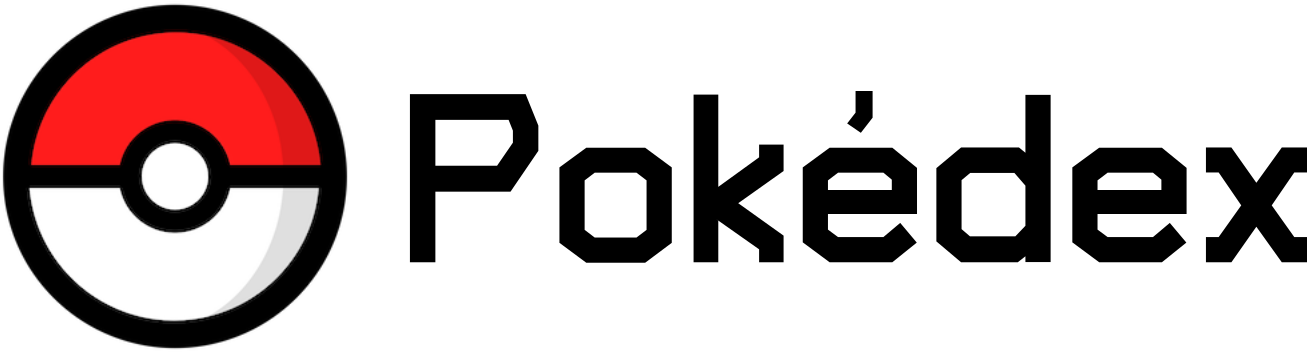
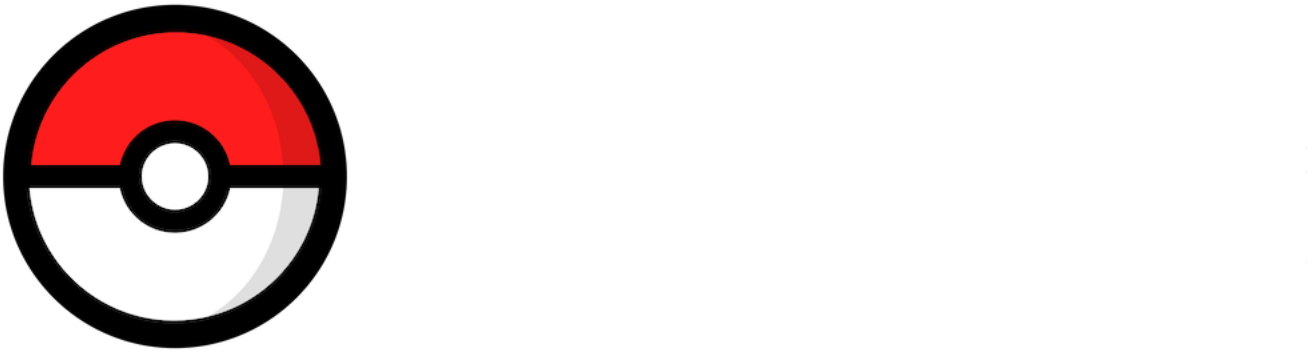
Updated style of page

Changed region(s): [[0.306, 0.25, 1.0, 0.75], [0.6427, 0.25, 0.6733, 0.375]]

diff --git a/css/styles.css b/css/styles.css
@@ -1,4 +1,5 @@
 :root {
+  --red: #f81c1c;
   --normal: #C1C1C1;
   --fire: #FA8E2E;
   --water: #509DFF;
@@ -36,25 +37,27 @@ h1 {
   text-align: center
 }
 
-h2 {
-  color: var(--font-color);
-  font-size: 24px;
-  font-weight: var(--font-bold);
-  text-align: center;
-}
-
 p {
   font-weight: var(--font-normal);
 }
 
 body {
-  background-image: linear-gradient(var(--water), var(--dark));
+  background-image: radial-gradient(var(--water), var(--grass), var(--water));
   background-repeat: no-repeat;
 }
 
 .container {
+  position: relative;
   margin-top: 95px;
   min-height: 100vh;
+}
+
+.container-header {
+  display: block;
+  margin-left: auto;
+  margin-right: auto;
+  margin-top: 25px;
+  margin-bottom: 10px;
 }
 
 .pokemon-list {
@@ -72,134 +75,223 @@ body {
 
 .list-group-item {
   border: none;
-  margin: -5px;
+  background: none;
 }
 
 .btn {
-  background-color: var(--grass);
+  background-color: var(--red);
   border-radius: 10px;
   padding: 20px;
   font-weight: var(--font-bold);
   text-transform: capitalize;
   text-align: center;
   width: 100%;
+  color: #fff;
+  border: solid 4px #000;
 }
 
   .btn:hover,
   .btn:focus {
     cursor: pointer;
     transition-duration: 0.4s;
+    background-color: var(--electric);
+  }
+
+.pokemon-left,
+.pokemon-right {
+  margin: auto;
+  position: fixed;
+  bottom: 0;
+  max-width: 500px;
+  height: auto;
+}
+
+.pokemon-left {
+  left: 0;
+}
+
+.pokemon-right {
+  right: 0;
   }
 
   /* ------------------------ Background Colors ------------------------ */
 
-  .normal-bg {
-    background-color: var(--normal);
-  }
+.normal-bg {
+  border: 8px solid var(--normal);
+}
 
-  .fire-bg {
-    background-color: var(--fire);
-  }
+.fire-bg {
+  border: 8px solid var(--fire);
+}
 
-  .water-bg {
-    background-color: var(--water);
-  }
+.water-bg {
+  border: 8px solid var(--water);
+}
 
-  .grass-bg {
-    background-color: var(--grass);
-  }
+.grass-bg {
+  border: 8px solid var(--grass);
+}
 
-  .electric-bg {
-    background-color: var(--electric);
-  }
+.electric-bg {
+  border: 8px solid var(--electric);
+}
 
-  .ice-bg {
-    background-color: var(--ice);
-  }
+.ice-bg {
+  border: 8px solid var(--ice);
+}
 
-  .fighting-bg {
-    background-color: var(--fighting);
-  }
+.fighting-bg {
+  border: 8px solid var(--fighting);
+}
 
-  .poison-bg {
-    background-color: var(--poison);
-  }
+.poison-bg {
+  border: 8px solid var(--poison);
+}
 
-  .ground-bg {
-    background-color: var(--ground);
-  }
+.ground-bg {
+  border: 8px solid var(--ground);
+}
 
-  .flying-bg {
-    background-color: var(--flying);
-  }
+.flying-bg {
+  border: 8px solid var(--flying);
+}
 
-  .psychic-bg {
-    background-color: var(--psychic);
-  }
+.psychic-bg {
+  border: 8px solid var(--psychic);
+}
 
-  .bug-bg {
-    background-color: var(--bug);
-  }
+.bug-bg {
+  border: 8px solid var(--bug);
+}
 
-  .rock-bg {
-    background-color: var(--rock);
-  }
+.rock-bg {
+  border: 8px solid var(--rock);
+}
 
-  .ghost-bg {
-    background-color: var(--ghost);
-  }
+.ghost-bg {
+   border: 8px solid var(--ghost);
+}
 
-  .dark-bg {
-    background-color: var(--dark);
-  }
+.dark-bg {
+  border: 8px solid var(--dark);
+}
 
-  .dragon-bg {
-    background-color: var(--dragon);
-  }
+.dragon-bg {
+   border: 8px solid var(--dragon);
+}
 
-  .steel-bg {
-    background-color: var(--steel);
-  }
+.steel-bg {
+  border: 8px solid var(--steel);
+}
 
-  .fairy-bg {
-    background-color: var(--fairy);
-  }
+.fairy-bg {
+  border: 8px solid var(--fairy);
+}
 
   /* ------------------------ Modal Style ------------------------ */
+  
+.modal-content {
+  margin: 10px;
+  display: inline-block;
+  box-sizing: border-box;
+  background: #fff;
+  padding: 15px;
+  width: 100%;
+  max-width: 500px;
+  justify-content: left;
+  border-radius: 25px;
+}
+  
+.modal-img {
+  display: block;
+  margin-left: auto;
+  margin-right: auto;
+}
+  
+.modal h1 {
+  margin-top: 0;
+  text-transform: capitalize;
+}
+  
+.modal p {
+  margin-bottom: 0;
+  text-transform: capitalize;
+}
 
-  .modal-dialog {
-    padding: 20px;
-    box-sizing: border-box;
-    overflow: auto; 
-    display: grid;
+  /* ------------------------ Media Queries ------------------------ */
+
+
+@media all and (max-width: 750px) {
+  .pokemon-left {
+    max-width: 100%;
+    max-height: 100%;
   }
   
-  .modal-content {
-    margin: 10px;
-    display: inline-block;
-    box-sizing: border-box;
-    background: #fff;
-    padding: 15px;
-    width: 100%;
-    border: 5px solid var(--dragon);
-    max-width: 500px;
-    justify-content: left;
-    border-radius: 25px;
-    
+   .pokemon-right {
+    max-width: 100%;
+    max-height: 100%;
   }
+}
+
   
-  .modal-img {
+@media all and (min-width: 500px) and (max-width: 750px) {
+  .navbar-brand {
+    margin-left: auto;
+    margin-right: auto;
     display: block;
+  }
+
+  .d-flex {
+    display: block;
+    text-align: center;
+    margin: 2% auto;
     margin-left: auto;
     margin-right: auto;
   }
-  
-  .modal h1 {
-    margin-top: 0;
-    text-transform: capitalize;
+
+  .pokemon-left {
+    display: none;
   }
   
-  .modal p {
-    margin-bottom: 0;
-    text-transform: capitalize;
+  .pokemon-right {
+    display: none;
+  }
+
+  body {
+    display: none;
+  }
+
+  .container-header {
+    margin-top: 85px;
+  }
+}
+  
+@media all and (max-width: 705px) {
+  .navbar-brand {
+    margin-left: auto;
+    margin-right: auto;
+    display: block;
+  }
+
+ .d-flex {
+    display: block;
+    text-align: center;
+    margin: 2% auto;
+    margin-left: auto;
+    margin-right: auto;
+  }
+
+  .pokemon-imgs {
+     display: none;
+  }
+
+  body {
+    display: none;
+    background-image: none;
+  }
+
+  .container-header {
+     margin-top: 85px;
+  }
+
   }

diff --git a/index.html b/index.html
@@ -9,8 +9,7 @@
   <link rel="stylesheet" href="https://stackpath.bootstrapcdn.com/bootstrap/4.3.1/css/bootstrap.min.css"
     integrity="sha384-ggOyR0iXCbMQv3Xipma34MD+dH/1fQ784/j6cY/iJTQUOhcWr7x9JvoRxT2MZw1T" crossorigin="anonymous">
   <link rel="preconnect" href="https://fonts.gstatic.com">
-  <link href="https://fonts.googleapis.com/css2?family=Montserrat:wght@400;700&family=Turret+Road:wght@800&display=swap"
-    rel="stylesheet">
+  <link href="https://fonts.googleapis.com/css2?family=Montserrat:wght@400;700&display=swap" rel="stylesheet">
   <link rel="stylesheet" type="text/css" href="css/styles.css">
 </head>
 
@@ -18,13 +17,13 @@
 
   <header class="page-header">
 
-   <nav class="navbar navbar-light bg-light fixed-top">
+   <nav class="navbar navbar-dark bg-dark fixed-top">
      <a class="navbar-brand" href="index.html">
-       <img src="img/pokedex.png" height="70" class="d-inline-block align-top" alt="pokeball illustration and title Pokedex">
+       <img src="img/pokedex.png" height="90" class="d-inline-block align-top" alt="pokeball illustration and title Pokedex">
       </a>
       
       <form class="d-flex">
-        <input placeholder="Search the Pokedex..." class="form-control mr-sm-2" id="search-bar" type="search" name="search" value="" aria-label="search">
+        <input placeholder="Search the Pokédex..." class="form-control" id="search-bar" type="search" name="search" value="" aria-label="search">
       </form>
 
     </nav>
@@ -33,12 +32,19 @@
 
  <!-- Pokedex -->
 
-  <div class="container">
-    <div class="row pokemon-list list-group-flush bg-white"></div>
-  </div>>
+  <div class="pokemon-imgs">
+    <img src="img/pikachu.png" class="pokemon-left">
+    <img src="img/charmander.png" class="pokemon-right">
+  </div>
+
+  <div class="container bg-white">
+    <img src="img/Gotta-catch-em-all.png" class="container-header">
+    
+    <div class="row pokemon-list"></div>
+  </div>
   
   <div class="modal fade" id="pokemonModal" tabindex="-1" role="dialog" aria-labelledby="pokemonModalLabel" aria-hidden="true">
-    <div class="modal-dialog" role="document">
+    <div class="modal-dialog modal-dialog-centered" role="document">
       <div class="modal-content">
         <div class="modal-header">
            <h5 class="modal-title" id="pokemonModalLabel"></h5>
